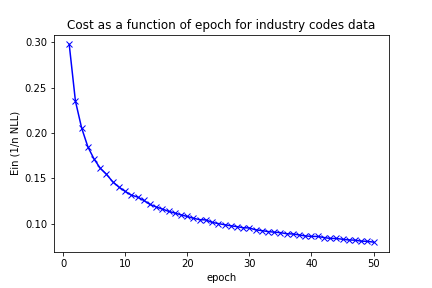
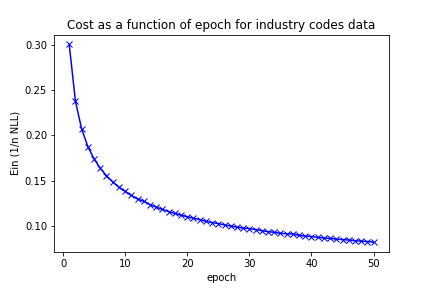
færdigt projekt

diff --git a/Aflevering1/softmax.py b/Aflevering1/softmax.py
@@ -26,9 +26,9 @@ def softmax(X):
     """
     res = np.zeros(X.shape)
     ### YOUR CODE HERE no for loops please
-    e = np.exp(X)
-    denoms = sum(e.T)
-    res = np.array([e[i] / denoms[i] for i in range(len(X))])
+    e = np.exp(X).T
+    denoms = sum(e)
+    res = (e / denoms).T
     ### END CODE
     return res
     
@@ -70,11 +70,10 @@ class SoftmaxClassifier():
         grad = np.zeros(W.shape)*np.nan
         Yk = one_in_k_encoding(y, self.num_classes) # may help - otherwise you may remove it
         ### YOUR CODE HERE
-        p = X.dot(W)
-        s = softmax(p)
-        cost = - 1 / len(y) * sum(sum(Yk * np.log(s)))
+        sm = softmax(X.dot(W))
+        cost = - 1 / len(y) * sum(sum(Yk * np.log(sm)))
         if calculateGrad:
-            grad = - 1 / len(y) * X.T.dot(Yk - s)
+            grad = - 1 / len(y) * X.T.dot(Yk - sm)
         ### END CODE
         return cost, grad
 
@@ -103,8 +102,10 @@ class SoftmaxClassifier():
         for i in range(epochs):
             print("starting epoch: ", i)
             p = np.random.permutation(range(len(Y)))
+            Xp = X[p]
+            Yp = Y[p]
             for j in range(int( len(Y) / batch_size + 0.5)):
-                W = W - lr * self.cost_grad(np.array([X[i] for i in p[b*j : b*(j + 1)]]), np.array([Y[i] for i in p[b*j : b * (j + 1)]]), W)[1]
+                W = W - lr * self.cost_grad(Xp[b*j : b*(j + 1)], Yp[b*j : b * (j + 1)], W)[1]
             print("calculating history for epoch: ", i)
             history = history + [self.cost_grad(X, Y, W, 0)[0]]
         ### END CODE
@@ -124,7 +125,7 @@ class SoftmaxClassifier():
 
         ### YOUR CODE HERE 1-4 lines
         prediction = self.predict(X)
-        out =  1 / len(Y) * sum([(prediction[i] == Y[i]) for i in range(len(Y))])
+        out =  1 / len(Y) * sum(prediction == Y)
         ### END CODE
         return out
 

diff --git a/Aflevering1/logistic_regression.py b/Aflevering1/logistic_regression.py
@@ -66,8 +66,10 @@ class LogisticRegressionClassifier():
         ### YOUR CODE HERE 14 - 20 lines
         for i in range(epochs):
             p = np.random.permutation(range(len(y)))
+            Xp = X[p]
+            yp = y[p]
             for j in range(int( len(y) / batch_size + 0.5)):
-                w = w - lr * self.cost_grad(np.array([X[i] for i in p[b*j : b*(j + 1)]]), np.array([y[i] for i in p[b*j : b * (j + 1)]]), w)[1]
+                w = w - lr * self.cost_grad(Xp[b*j : b*(j + 1)], yp[b*j : b * (j + 1)], w)[1]
             history = history + [self.cost_grad(X, y, w)[0]]
                         
         ### END CODE

diff --git a/Aflevering1/softmax_hint.py b/Aflevering1/softmax_hint.py
@@ -124,7 +124,7 @@ class SoftmaxClassifier():
 
         ### YOUR CODE HERE 1-4 lines
         prediction = self.predict(X)
-        out =  1 / len(Y) * sum([(prediction[i] == Y[i]) for i in range(len(Y))])
+        out =  1 / len(Y) * sum(prediction == Y)
         ### END CODE
         return out
 
